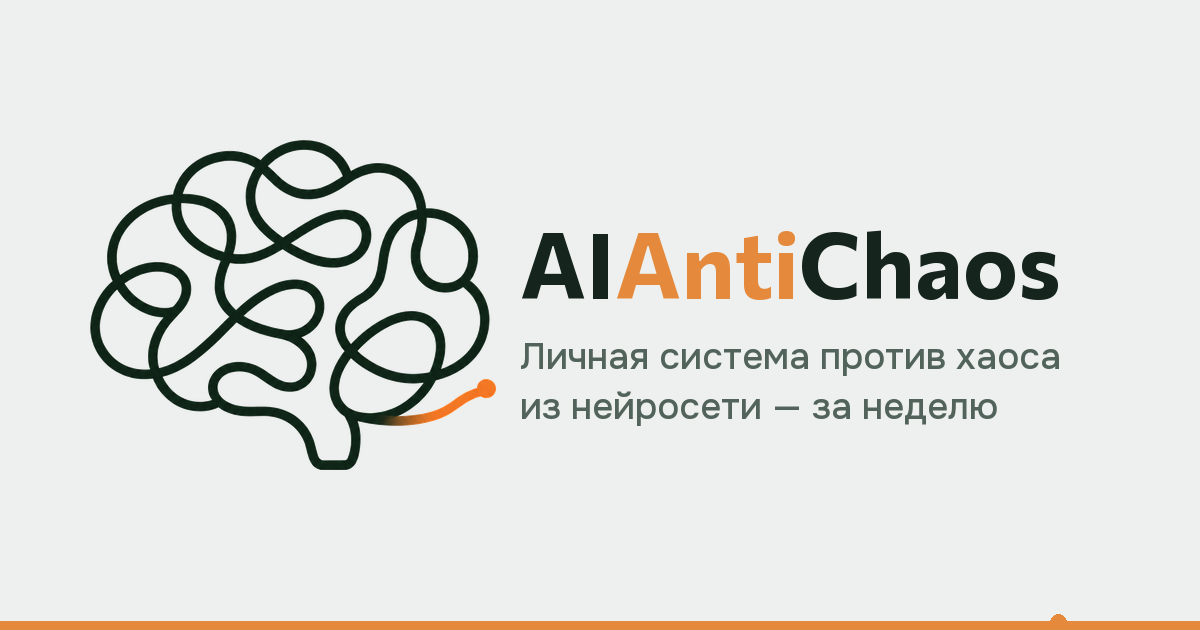
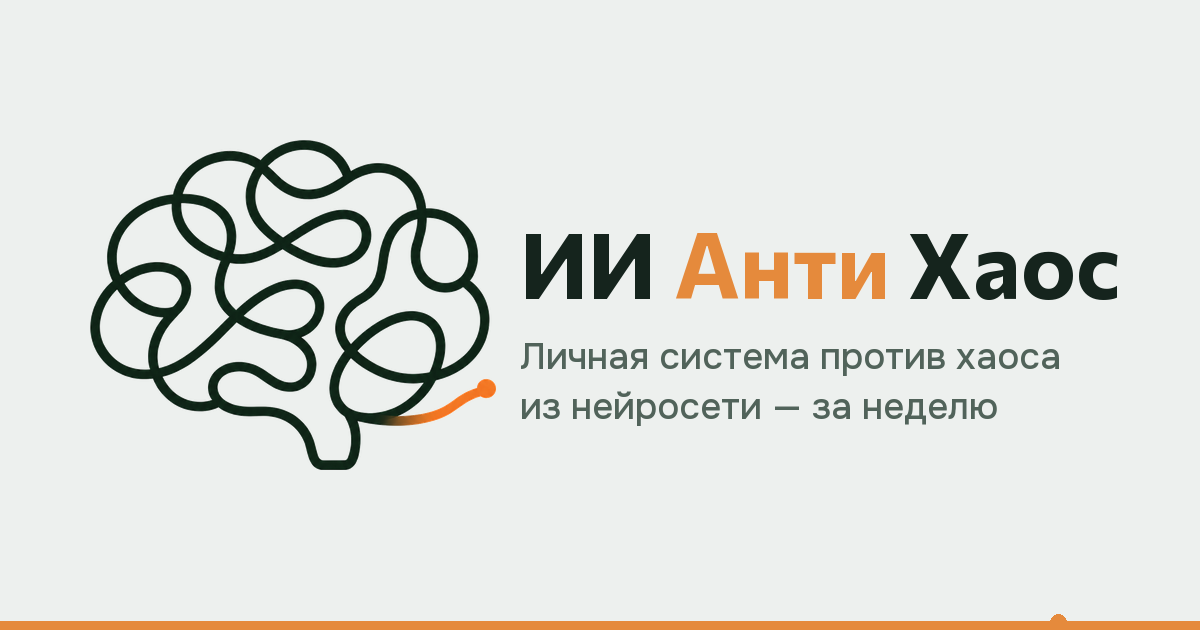
Переименование: ИИ Анти Хаос (русское название)
Видимый бренд переведён на русский в шапке, title, og:title, footer и перерисованном og.png. Домен aiantichaos.ru без изменений.

Changed region(s): [[0.4317, 0.3619, 0.9558, 0.4825]]

diff --git a/index.html b/index.html
@@ -3,10 +3,10 @@
 <head>
   <meta charset="utf-8">
   <meta name="viewport" content="width=device-width, initial-scale=1">
-  <title>AIAntiChaos — личная система против хаоса с помощью нейросети</title>
+  <title>ИИ Анти Хаос — личная система против хаоса с помощью нейросети</title>
   <meta name="description" content="Персональная консультация: за неделю собираем из Claude твою личную систему — память, задачи, проекты. Для тех, у кого куча идей и ничего не доходит до конца.">
   <meta property="og:type" content="website">
-  <meta property="og:title" content="AIAntiChaos — личная система против хаоса">
+  <meta property="og:title" content="ИИ Анти Хаос — личная система против хаоса">
   <meta property="og:description" content="За неделю собираем из Claude твою личную систему: память, задачи, проекты. Для тех, у кого куча идей и ничего не доходит до конца.">
   <meta property="og:url" content="https://aiantichaos.ru">
   <meta property="og:image" content="https://aiantichaos.ru/assets/og.png">
@@ -250,7 +250,7 @@
     <div class="thread" aria-hidden="true"><div class="thread__fill" id="fill"></div></div>
 
     <header class="head">
-      <div class="logo"><img class="logo__mark" src="assets/logo.png" alt="" width="49" height="40">AI<span>Anti</span>Chaos</div>
+      <div class="logo"><img class="logo__mark" src="assets/logo.png" alt="" width="49" height="40">ИИ <span>Анти</span> Хаос</div>
       <a class="head__link" href="https://t.me/neonick">Telegram</a>
     </header>
 
@@ -284,7 +284,7 @@
       <span class="node" aria-hidden="true"></span>
       <h2 class="reveal">Я сам такой</h2>
       <div class="story__grid">
-        <img class="story__photo reveal" src="assets/portrait_placeholder.svg" alt="Николай — автор AIAntiChaos" width="320" height="400">
+        <img class="story__photo reveal" src="assets/portrait_placeholder.svg" alt="Николай — автор ИИ Анти Хаос" width="320" height="400">
         <div>
           <p class="story__lead reveal">У меня диагностированный СДВГ и постоянный хаос в голове. Всегда была куча идей — и почти ни одна не доходила до реализации. Дела начинались на энтузиазме, какое-то время делались, потом бросались. Я перепробовал все методы и приложения для продуктивности, прочитал пару десятков книг по продуктивности и GTD. Не помогало ничего — список задач только копился, пока не становилось проще его не открывать.</p>
           <p class="reveal">Нейросетями я интересуюсь с конца 2022 года. Долго пользовался ими как очень умным гуглом — спросить, получить ответ. А зимой 2025 решил построить из Claude свою личную систему: с памятью, с планированием, с задачами. Не ради кодинга — ради порядка в делах и голове. Система получилась на редкость стабильная и цельная, и все мои давно планируемые проекты полетели.</p>
@@ -357,7 +357,7 @@
       <p class="price__micro reveal">Напиши — расскажешь, что у тебя за хаос, а я честно скажу, помогу или нет. Без обязательств.</p>
     </section>
 
-    <footer class="foot">AIAntiChaos · @neonick · 2026</footer>
+    <footer class="foot">ИИ Анти Хаос · @neonick · 2026</footer>
   </div>
 
   <script>
